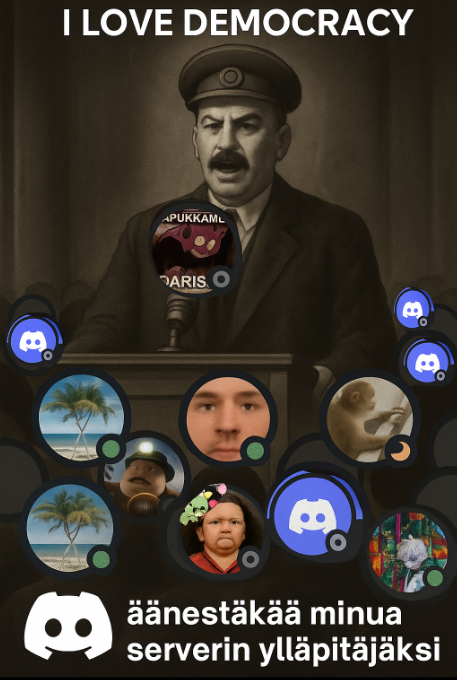
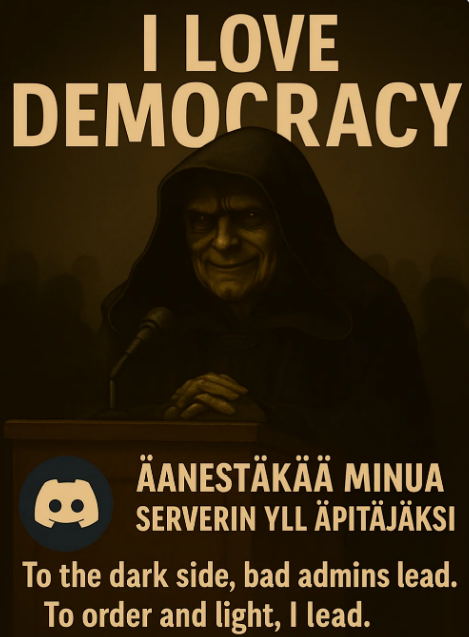
Add files via upload

diff --git a/scripts.js b/scripts.js
@@ -19,7 +19,7 @@ function info(name) {
             document.getElementById('info').innerHTML = "<br>Moi kaikki!<br><br>Mä oon Mikko, ja oon ehdolla moderaattoriksi meidän serverille.<br> Oon ollut täällä pitkään mukana, ja nyt haluaisin auttaa teitä vielä enemmän – pitää huolta siitä, että kaikilla on hyvä fiilis ja meininki pysyy hyvänä.<br><br>Miksi just mä?<br><br>🟢 Oon aktiivinen – pyörin paljon paikalla ja reagoin nopeasti.<br>🟢 Oon rauhallinen ja reilu – kaikki saa mun silmissä saman kohtelun.<br>🟢 Tykkään kehittää juttuja – uudet ideat ja parannukset on mun juttu.<br>🟢 Haluan pitää tunnelman kivana – huumoria saa olla, mutta hommat hoituu.<br><br>Mun mielestä moderaattori ei vaan valvo – se myös kuuntelee, tukee ja auttaa.<br>Jos sä haluat, että serveri pysyy kivana paikkana kaikille, niin ois huikeeta saada sun ääni. 🙌<br><br>🗳 Äänestä Mikkoa – tehdään tästä porukasta vielä parempi!<br>🤝 Yhdessä, rauhassa, hyvässä hengessä.";
             document.getElementById('info').scrollIntoView({ behavior: 'smooth' });
         } else if (name === "lauri") {
-            document.getElementById('info').innerHTML = "<br>Moi kaikki!<br><br>Mä oon Mikko, ja oon ehdolla moderaattoriksi meidän serverille.<br> Oon ollut täällä pitkään mukana, ja nyt haluaisin auttaa teitä vielä enemmän – pitää huolta siitä, että kaikilla on hyvä fiilis ja meininki pysyy hyvänä.<br><br>Miksi just mä?<br><br>🟢 Oon aktiivinen – pyörin paljon paikalla ja reagoin nopeasti.<br>🟢 Oon rauhallinen ja reilu – kaikki saa mun silmissä saman kohtelun.<br>🟢 Tykkään kehittää juttuja – uudet ideat ja parannukset on mun juttu.<br>🟢 Haluan pitää tunnelman kivana – huumoria saa olla, mutta hommat hoituu.<br><br>Mun mielestä moderaattori ei vaan valvo – se myös kuuntelee, tukee ja auttaa.<br>Jos sä haluat, että serveri pysyy kivana paikkana kaikille, niin ois huikeeta saada sun ääni. 🙌<br><br>🗳 Äänestä Mikkoa – tehdään tästä porukasta vielä parempi!<br>🤝 Yhdessä, rauhassa, hyvässä hengessä.";
+            document.getElementById('info').innerHTML = "<br>Greetings, young padawans!<br>I am Lauri and I am running for moderator.<br><br>I've wandered these channels for a long time. Observed the dark shadow that has covered our server for far too long.<br> Endured the spam, cringe, and muting. Now I step forward to bring peace, balance... and amaybe a little joke (racist) if needed.<br>Why vote for me?<br><br>🛡 Order… I bring. Chaos… I erase. Chill when needed, firm when necessary.<br>⚡ Unlimited moderation… unlimited power! (With a light touch.)<br>🧠 Wisdom, jokes, and fair judgement – all are equal❤<br>💬 I listen. I support. I deliver. Sometimes all at once.<br><br>“Fear leads to spam. Spam leads to bans. Bans… I deliver.”<br><br>So if you want a server where the Force is strong, the channels clean, and the vibes immaculate…<br>🗳 Cast your vote. Choose balance. Choose Lauri.<br>You want democracy? I am democracy.";
             document.getElementById('info').scrollIntoView({ behavior: 'smooth' });
         } else if (name === "tuomas") {
             document.getElementById('info').innerHTML = "<br>Moikka!<br><br>Mun nimi on Tuomas ja olen ehdolla meidän upean serverin moderaattoriksi!<br>Mä uskon että Hyvän serverin salaisuus on kolme asiaa:<br><br>😊Rento ja mukava ilmapiiri.<br>✊Kaikkien jäsenien tasavertaisuus.<br>✝Kristilliset arvot ja terve Jumalan pelko!<br><br> Uskon että tällä pyhällä kolminaisuudelle serverimme jatkaa tulevaisuudessakin hyvään malliin<br> ja pidämme sen parhaana mahdollisena paikkana meille kaikille!<br><br>Ääni Tuomakselle on ääni tasavertoisuudelle!<br><br> Kiitos paljon kiinnostuksestasi ja siunattua päivää sinulle!❤";
